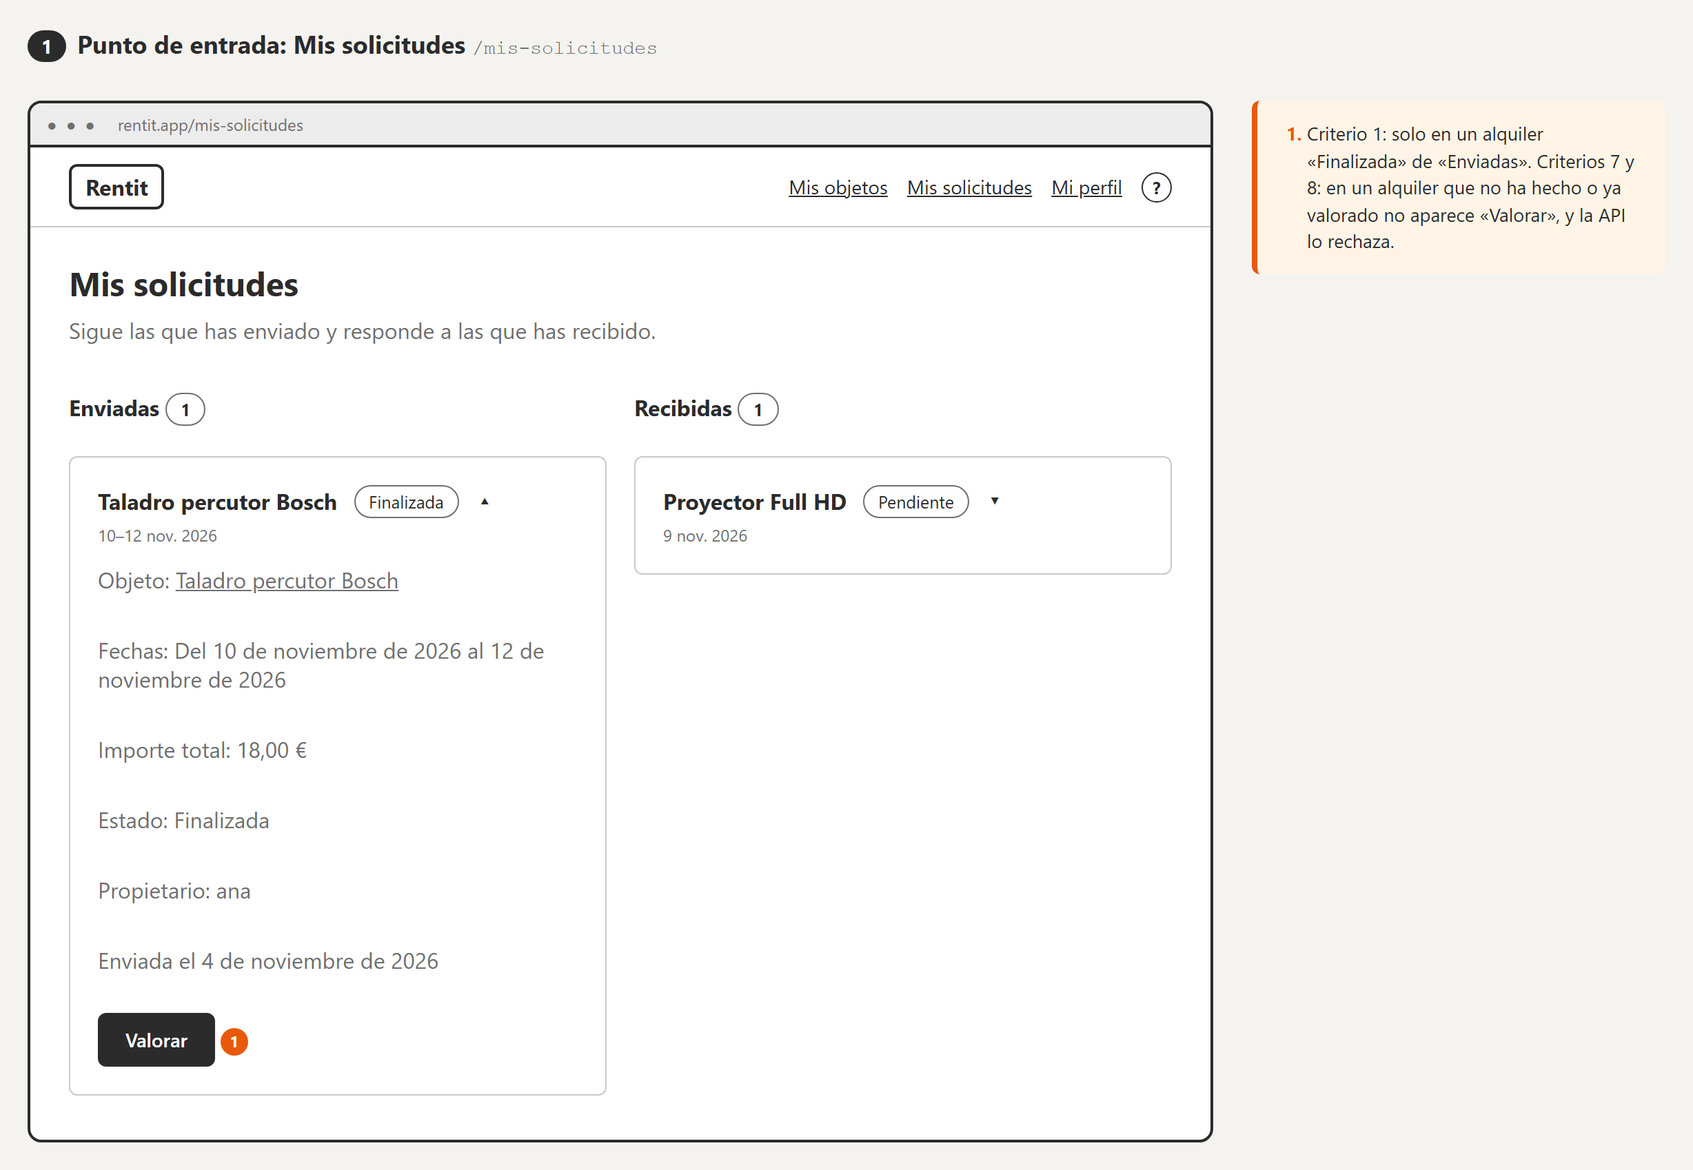
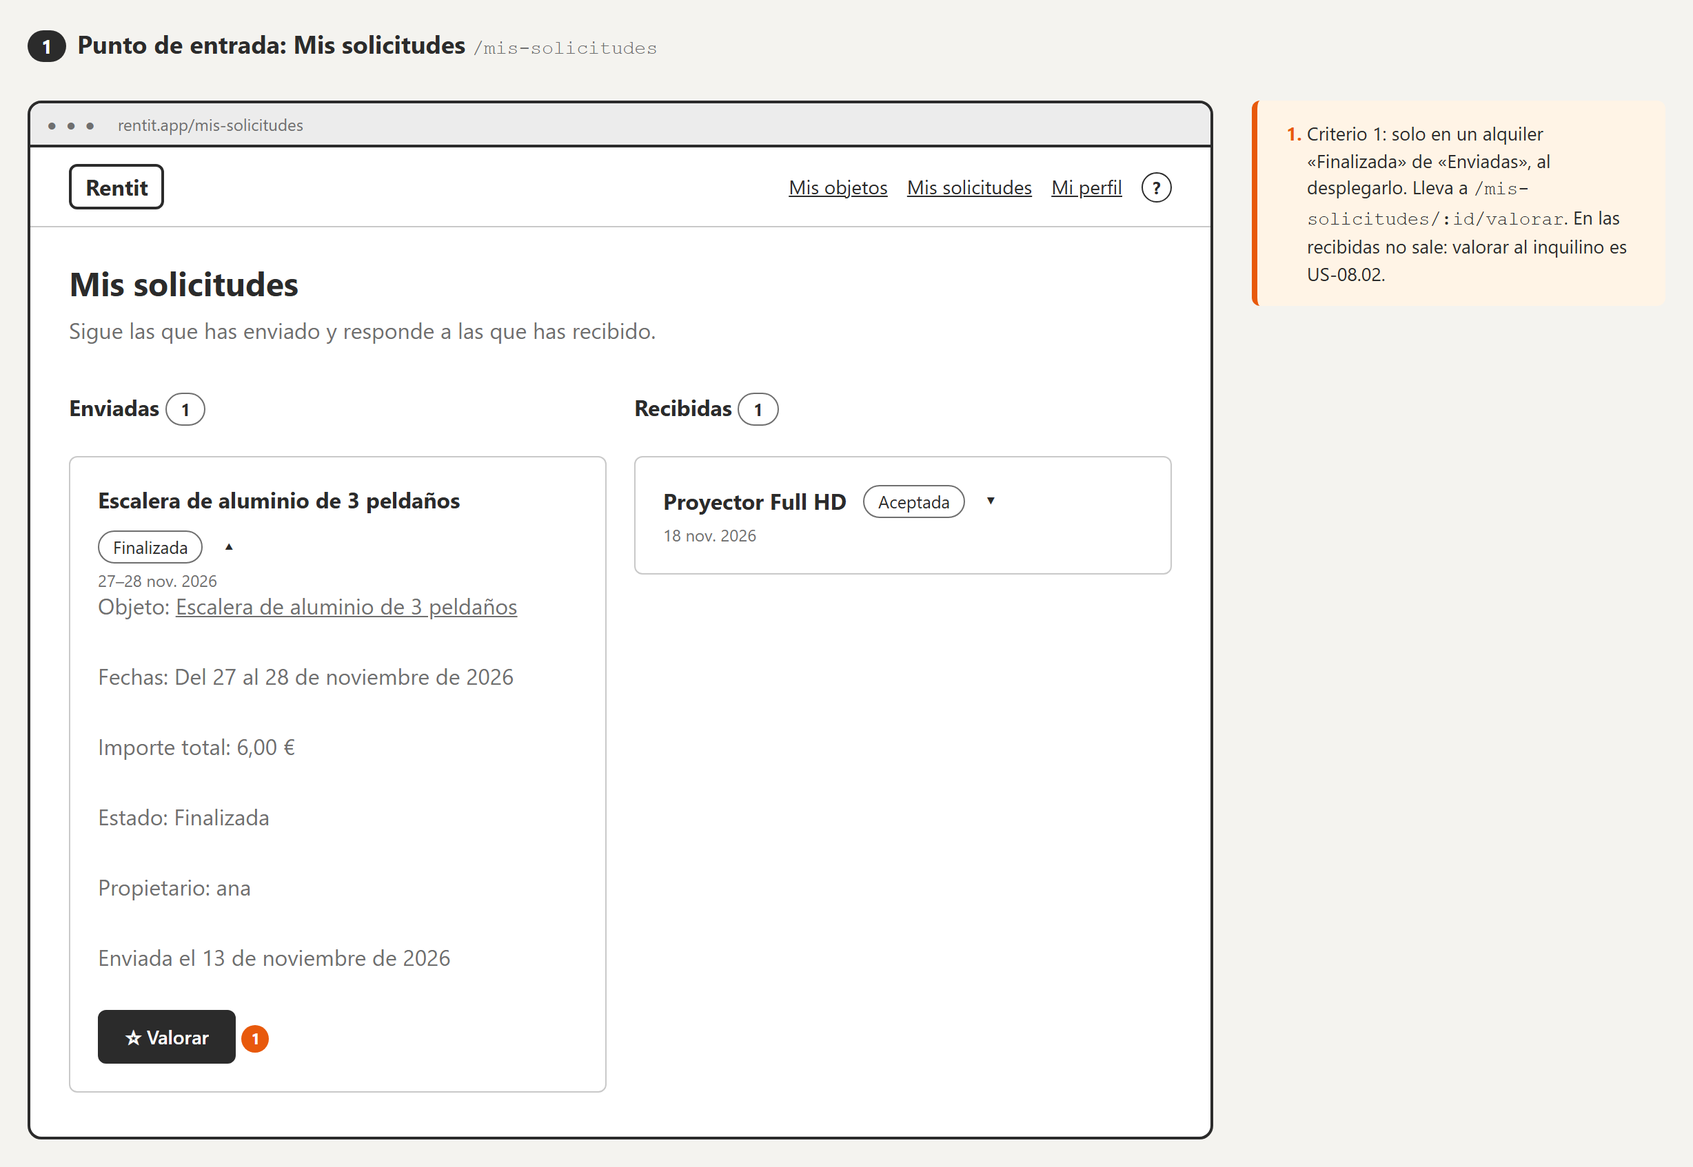
docs(wireframe): US-08.01 valorar un alquiler según la pantalla hecha (#296)

diff --git a/docs/wireframes/US-08.01-valorar-alquiler/index.html b/docs/wireframes/US-08.01-valorar-alquiler/index.html
@@ -13,10 +13,14 @@
         experiencia con otros usuarios</strong>.
       </p>
       <p class="wf-meta">
-        Issue #74 · Flujo propuesto: se confirma en el Sprint Planning · Wireframe de baja fidelidad · Generado con
-        asistencia de IA (Claude) – pendiente de revisar por el equipo en el Sprint Planning
+        Issue #74 · Tarea de frontend #296 · Wireframe de baja fidelidad · Actualizado con asistencia de IA (Claude) tras
+        la maqueta web de la tarea, pendiente de revisar por el equipo
       </p>
-      <p class="wf-meta">Actualizado con asistencia de IA (Claude) tras el rediseño (#258), pendiente de revisar por el equipo</p>
+      <p class="wf-meta">
+        Valora quien hizo la solicitud (el arrendatario). Que el propietario valore al inquilino es US-08.02 y usa el mismo
+        formulario. El backend (#295) todavía no existe: la pantalla se ha probado contra un simulador del contrato
+        propuesto.
+      </p>
       <p class="wf-meta">Maqueta de Figma · Marco «Ficha»: la sección «Valoracions» enseña en la ficha el resultado de esta historia; aquí solo se dibuja cómo se valora.</p>
     </header>
 
@@ -26,10 +30,7 @@
         <div class="wf-escritorio" data-url="rentit.app/mis-solicitudes">
           <nav class="wf-nav">
             <span class="wf-logo">Rentit</span>
-            <span class="wf-enlaces">
-              <span class="wf-enlace">Mis objetos</span>
-              <span class="wf-enlace">Mis solicitudes</span>
-              <span class="wf-enlace">Mi perfil</span><span class="wf-icono-ayuda" title="Ayuda">?</span></span>
+            <span class="wf-enlaces"><span class="wf-enlace">Mis objetos</span><span class="wf-enlace">Mis solicitudes</span><span class="wf-enlace">Mi perfil</span><span class="wf-icono-ayuda" title="Ayuda">?</span></span>
           </nav>
           <div class="wf-contenido">
             <h3 class="wf-h1">Mis solicitudes</h3>
@@ -38,26 +39,25 @@
               <div>
                 <h4>Enviadas <span class="wf-chip">1</span></h4>
                 <div class="wf-tarjeta">
-                  <div class="wf-fila"><strong>Taladro percutor Bosch</strong><span class="wf-chip">Finalizada</span><span>▴</span></div>
-                  <p class="wf-ayuda">10–12 nov. 2026</p>
-                  <p class="wf-texto"></p>
+                  <div class="wf-fila"><strong>Escalera de aluminio de 3 peldaños</strong><span class="wf-chip">Finalizada</span><span>▴</span></div>
+                  <p class="wf-ayuda">27–28 nov. 2026</p>
                   <div class="wf-rejilla">
-                    <p class="wf-texto">Objeto: <span class="wf-enlace">Taladro percutor Bosch</span></p>
-                    <p class="wf-texto">Fechas: Del 10 de noviembre de 2026 al 12 de noviembre de 2026</p>
-                    <p class="wf-texto">Importe total: 18,00 €</p>
+                    <p class="wf-texto">Objeto: <span class="wf-enlace">Escalera de aluminio de 3 peldaños</span></p>
+                    <p class="wf-texto">Fechas: Del 27 al 28 de noviembre de 2026</p>
+                    <p class="wf-texto">Importe total: 6,00 €</p>
                     <p class="wf-texto">Estado: Finalizada</p>
                     <p class="wf-texto">Propietario: ana</p>
-                    <p class="wf-texto">Enviada el 4 de noviembre de 2026</p>
+                    <p class="wf-texto">Enviada el 13 de noviembre de 2026</p>
                   </div>
                   <p class="wf-texto"></p>
-                  <span class="wf-boton">Valorar</span><span class="wf-marca">1</span>
+                  <span class="wf-boton">☆ Valorar</span><span class="wf-marca">1</span>
                 </div>
               </div>
               <div>
                 <h4>Recibidas <span class="wf-chip">1</span></h4>
                 <div class="wf-tarjeta">
-                  <div class="wf-fila"><strong>Proyector Full HD</strong><span class="wf-chip">Pendiente</span><span>▾</span></div>
-                  <p class="wf-ayuda">9 nov. 2026</p>
+                  <div class="wf-fila"><strong>Proyector Full HD</strong><span class="wf-chip">Aceptada</span><span>▾</span></div>
+                  <p class="wf-ayuda">18 nov. 2026</p>
                 </div>
               </div>
             </div>
@@ -66,8 +66,8 @@
       </div>
       <ol class="wf-notas">
         <li>
-          Criterio 1: solo en un alquiler «Finalizada» de «Enviadas». Criterios 7 y 8: en un alquiler que no ha hecho o ya
-          valorado no aparece «Valorar», y la API lo rechaza.
+          Criterio 1: solo en un alquiler «Finalizada» de «Enviadas», al desplegarlo. Lleva a
+          <code>/mis-solicitudes/:id/valorar</code>. En las recibidas no sale: valorar al inquilino es US-08.02.
         </li>
       </ol>
     </section>
@@ -77,34 +77,32 @@
     <section class="wf-pantalla" data-captura="2-formulario">
       <h2><span class="wf-paso">2</span>Formulario de valoración <code>/mis-solicitudes/:id/valorar</code></h2>
       <div class="wf-dispositivos">
-        <div class="wf-escritorio" data-url="rentit.app/mis-solicitudes/5ac9…/valorar">
+        <div class="wf-escritorio" data-url="rentit.app/mis-solicitudes/2b51…/valorar">
           <nav class="wf-nav">
             <span class="wf-logo">Rentit</span>
-            <span class="wf-enlaces">
-              <span class="wf-enlace">Mis objetos</span>
-              <span class="wf-enlace">Mis solicitudes</span>
-              <span class="wf-enlace">Mi perfil</span><span class="wf-icono-ayuda" title="Ayuda">?</span></span>
+            <span class="wf-enlaces"><span class="wf-enlace">Mis objetos</span><span class="wf-enlace">Mis solicitudes</span><span class="wf-enlace">Mi perfil</span><span class="wf-icono-ayuda" title="Ayuda">?</span></span>
           </nav>
           <div class="wf-contenido">
-            <div class="wf-centrado wf-tarjeta">
-              <h3 class="wf-h1">Valorar el alquiler <span class="wf-marca">1</span></h3>
-              <p class="wf-texto">Taladro percutor Bosch · Del 10/11/2026 al 12/11/2026</p>
-              <div class="wf-campo">
-                <label>Puntuación <span class="wf-marca">2</span></label>
+            <div class="wf-centrado">
+              <h3 class="wf-h1">Valorar el alquiler</h3>
+              <p class="wf-ayuda">Cuenta tu experiencia para ayudar a otras personas.</p>
+              <div class="wf-tarjeta">
+                <p class="wf-texto"><span class="wf-enlace">Escalera de aluminio de 3 peldaños</span> <span class="wf-marca">1</span></p>
+                <p class="wf-ayuda">Del 27 de noviembre de 2026 al 28 de noviembre de 2026<br />Propietario: ana</p>
+                <div class="wf-campo">
+                  <label>Puntuación <span class="wf-marca">2</span></label>
+                  <p class="wf-texto">☆ ☆ ☆ ☆ ☆ &nbsp; <strong>Elige de 1 a 5</strong></p>
+                </div>
+                <div class="wf-campo">
+                  <label>Comentario (opcional) <span class="wf-marca">3</span></label>
+                  <div class="wf-input">¿Qué tal ha ido? El objeto, la entrega, el trato…<br /><br /></div>
+                  <p class="wf-ayuda">Lo verán otras personas en el perfil de ana. Hasta 1000 caracteres (0/1000).</p>
+                </div>
                 <div class="wf-fila">
-                  <span class="wf-boton wf-secundario">☆</span>
-                  <span class="wf-boton wf-secundario">☆</span>
-                  <span class="wf-boton wf-secundario">☆</span>
-                  <span class="wf-boton wf-secundario">☆</span>
-                  <span class="wf-boton wf-secundario">☆</span>
+                  <span class="wf-boton">Publicar</span><span class="wf-marca">4</span>
+                  <span class="wf-boton wf-secundario">Cancelar</span>
                 </div>
               </div>
-              <div class="wf-campo">
-                <label>Comentario <span class="wf-marca">3</span></label>
-                <div class="wf-input">Cuenta cómo ha ido tu experiencia</div>
-                <p class="wf-ayuda">Opcional.</p>
-              </div>
-              <span class="wf-boton wf-ancho">Publicar</span>
             </div>
           </div>
         </div>
@@ -112,25 +110,27 @@
           <nav class="wf-nav"><span class="wf-logo">Rentit</span><span class="wf-icono-ayuda" title="Ayuda">?</span></nav>
           <div class="wf-contenido">
             <h3 class="wf-h1">Valorar el alquiler</h3>
-            <p class="wf-texto">Taladro percutor Bosch · Del 10/11/2026 al 12/11/2026</p>
-            <div class="wf-campo">
-              <label>Puntuación</label>
-              <div class="wf-input">☆ ☆ ☆ ☆ ☆</div>
+            <div class="wf-tarjeta">
+              <p class="wf-texto"><span class="wf-enlace">Escalera de aluminio de 3 peldaños</span></p>
+              <p class="wf-ayuda">27 – 28 nov. 2026 · ana</p>
+              <div class="wf-campo"><label>Puntuación</label><p class="wf-texto">☆ ☆ ☆ ☆ ☆<br /><strong>Elige de 1 a 5</strong></p></div>
+              <div class="wf-campo"><label>Comentario (opcional)</label><div class="wf-input">¿Qué tal ha ido?…<br /><br /></div></div>
+              <span class="wf-boton wf-ancho">Publicar</span>
+              <p class="wf-texto"></p>
+              <span class="wf-boton wf-secundario wf-ancho">Cancelar</span>
             </div>
-            <div class="wf-campo">
-              <label>Comentario</label>
-              <div class="wf-input">Cuenta cómo ha ido tu experiencia</div>
-              <p class="wf-ayuda">Opcional.</p>
-            </div>
-            <span class="wf-boton wf-ancho">Publicar</span>
           </div>
           <div class="wf-barra-inferior"><span>Inicio</span><span>Mis objetos</span><span>Mis solicitudes</span><span>Mi perfil</span></div>
         </div>
       </div>
       <ol class="wf-notas">
-        <li>Ruta propuesta. No se define «Cancelar»: se sale con la cabecera.</li>
-        <li>Criterios 2 y 4: de 1 a 5 estrellas, obligatoria.</li>
-        <li>Criterio 3: el comentario es opcional.</li>
+        <li>El alquiler que se valora: el objeto enlaza a su ficha (<code>/objetos/:id</code>). Mientras carga se ve un relleno.</li>
+        <li>
+          Criterio 2: de 1 a 5 estrellas. Son botones de opción (se eligen con el ratón o con las flechas del teclado) y al
+          lado se lee qué significa cada una: Muy mal, Mal, Normal, Bien, Excelente. Al pasar el ratón se ve cómo quedaría.
+        </li>
+        <li>Criterio 3: comentario opcional, hasta 1000 caracteres, con contador.</li>
+        <li>«Publicar» envía la valoración. «Cancelar» vuelve a «Mis solicitudes» sin publicar.</li>
       </ol>
     </section>
 
@@ -139,41 +139,29 @@
     <section class="wf-pantalla" data-captura="3-error-sin-puntuacion">
       <h2><span class="wf-paso">3</span>Error: sin puntuación <code>/mis-solicitudes/:id/valorar</code></h2>
       <div class="wf-dispositivos">
-        <div class="wf-escritorio" data-url="rentit.app/mis-solicitudes/5ac9…/valorar">
+        <div class="wf-escritorio" data-url="rentit.app/mis-solicitudes/2b51…/valorar">
           <nav class="wf-nav">
             <span class="wf-logo">Rentit</span>
-            <span class="wf-enlaces">
-              <span class="wf-enlace">Mis objetos</span>
-              <span class="wf-enlace">Mis solicitudes</span>
-              <span class="wf-enlace">Mi perfil</span><span class="wf-icono-ayuda" title="Ayuda">?</span></span>
+            <span class="wf-enlaces"><span class="wf-enlace">Mis objetos</span><span class="wf-enlace">Mis solicitudes</span><span class="wf-enlace">Mi perfil</span><span class="wf-icono-ayuda" title="Ayuda">?</span></span>
           </nav>
           <div class="wf-contenido">
             <div class="wf-centrado wf-tarjeta">
-              <h3 class="wf-h1">Valorar el alquiler</h3>
-              <p class="wf-texto">Taladro percutor Bosch · Del 10/11/2026 al 12/11/2026</p>
               <div class="wf-campo">
                 <label>Puntuación</label>
-                <div class="wf-fila">
-                  <span class="wf-boton wf-secundario">☆</span>
-                  <span class="wf-boton wf-secundario">☆</span>
-                  <span class="wf-boton wf-secundario">☆</span>
-                  <span class="wf-boton wf-secundario">☆</span>
-                  <span class="wf-boton wf-secundario">☆</span>
-                </div>
+                <p class="wf-texto">☆ ☆ ☆ ☆ ☆ &nbsp; <strong>Elige de 1 a 5</strong></p>
                 <p class="wf-error">Elige una puntuación de 1 a 5 estrellas. <span class="wf-marca">1</span></p>
               </div>
-              <div class="wf-campo">
-                <label>Comentario</label>
-                <div class="wf-input">Cuenta cómo ha ido tu experiencia</div>
-                <p class="wf-ayuda">Opcional.</p>
-              </div>
-              <span class="wf-boton wf-ancho">Publicar</span>
+              <div class="wf-campo"><label>Comentario (opcional)</label><div class="wf-input">Muy bien<br /><br /></div></div>
+              <div class="wf-fila"><span class="wf-boton">Publicar</span><span class="wf-boton wf-secundario">Cancelar</span></div>
             </div>
           </div>
         </div>
       </div>
       <ol class="wf-notas">
-        <li>Criterio 5: no se publica y se indica en este campo. El texto exacto es una propuesta.</li>
+        <li>
+          Criterios 4 y 5: no se publica (no se llama a la API) y se indica en ese campo; las estrellas se marcan en rojo.
+          Al elegir una, el error desaparece.
+        </li>
       </ol>
     </section>
 
@@ -182,40 +170,33 @@
     <section class="wf-pantalla" data-captura="4-formulario-relleno">
       <h2><span class="wf-paso">4</span>Formulario relleno <code>/mis-solicitudes/:id/valorar</code></h2>
       <div class="wf-dispositivos">
-        <div class="wf-escritorio" data-url="rentit.app/mis-solicitudes/5ac9…/valorar">
+        <div class="wf-escritorio" data-url="rentit.app/mis-solicitudes/2b51…/valorar">
           <nav class="wf-nav">
             <span class="wf-logo">Rentit</span>
-            <span class="wf-enlaces">
-              <span class="wf-enlace">Mis objetos</span>
-              <span class="wf-enlace">Mis solicitudes</span>
-              <span class="wf-enlace">Mi perfil</span><span class="wf-icono-ayuda" title="Ayuda">?</span></span>
+            <span class="wf-enlaces"><span class="wf-enlace">Mis objetos</span><span class="wf-enlace">Mis solicitudes</span><span class="wf-enlace">Mi perfil</span><span class="wf-icono-ayuda" title="Ayuda">?</span></span>
           </nav>
           <div class="wf-contenido">
             <div class="wf-centrado wf-tarjeta">
-              <h3 class="wf-h1">Valorar el alquiler</h3>
-              <p class="wf-texto">Taladro percutor Bosch · Del 10/11/2026 al 12/11/2026</p>
               <div class="wf-campo">
                 <label>Puntuación</label>
-                <div class="wf-fila">
-                  <span class="wf-boton">★</span>
-                  <span class="wf-boton">★</span>
-                  <span class="wf-boton">★</span>
-                  <span class="wf-boton">★</span>
-                  <span class="wf-boton wf-secundario">☆</span>
-                </div>
+                <p class="wf-texto">★ ★ ★ ★ ☆ &nbsp; <strong>Bien</strong></p>
               </div>
               <div class="wf-campo">
-                <label>Comentario</label>
-                <div class="wf-input">El taladro funcionaba muy bien.</div>
-                <p class="wf-ayuda">Opcional.</p>
+                <label>Comentario (opcional)</label>
+                <div class="wf-input">Escalera en perfecto estado y ana muy puntual. Repetiría.<br /><br /></div>
+                <p class="wf-ayuda">Lo verán otras personas en el perfil de ana. Hasta 1000 caracteres (57/1000).</p>
               </div>
-              <span class="wf-boton wf-ancho">Publicar</span><span class="wf-marca">1</span>
+              <div class="wf-fila"><span class="wf-boton">Publicar</span><span class="wf-marca">1</span><span class="wf-boton wf-secundario">Cancelar</span></div>
             </div>
           </div>
         </div>
       </div>
       <ol class="wf-notas">
-        <li>Criterio 6: la valoración queda asociada al alquiler y al usuario que la ha creado.</li>
+        <li>
+          Criterio 6: la valoración queda asociada al alquiler y a quien la crea (<code>POST /reservas/:id/valoracion</code>
+          con la puntuación y el comentario). Mientras se envía dice «Publicando…» y el formulario está desactivado. Si la
+          API rechaza el comentario, el error sale en ese campo; otros errores, encima de los botones.
+        </li>
       </ol>
     </section>
 
@@ -227,46 +208,56 @@
         <div class="wf-escritorio" data-url="rentit.app/mis-solicitudes">
           <nav class="wf-nav">
             <span class="wf-logo">Rentit</span>
-            <span class="wf-enlaces">
-              <span class="wf-enlace">Mis objetos</span>
-              <span class="wf-enlace">Mis solicitudes</span>
-              <span class="wf-enlace">Mi perfil</span><span class="wf-icono-ayuda" title="Ayuda">?</span></span>
+            <span class="wf-enlaces"><span class="wf-enlace">Mis objetos</span><span class="wf-enlace">Mis solicitudes</span><span class="wf-enlace">Mi perfil</span><span class="wf-icono-ayuda" title="Ayuda">?</span></span>
           </nav>
           <div class="wf-contenido">
             <h3 class="wf-h1">Mis solicitudes</h3>
-            <p class="wf-texto">Sigue las que has enviado y responde a las que has recibido.</p>
+            <p class="wf-aviso">✓ Valoración publicada. <span class="wf-marca">1</span></p>
             <div class="wf-columnas wf-iguales">
-              <div>
-                <h4>Enviadas <span class="wf-chip">1</span></h4>
-                <div class="wf-tarjeta">
-                  <div class="wf-fila"><strong>Taladro percutor Bosch</strong><span class="wf-chip">Finalizada</span><span>▴</span></div>
-                  <p class="wf-ayuda">10–12 nov. 2026</p>
-                  <p class="wf-texto"></p>
-                  <div class="wf-rejilla">
-                    <p class="wf-texto">Objeto: <span class="wf-enlace">Taladro percutor Bosch</span></p>
-                    <p class="wf-texto">Fechas: Del 10 de noviembre de 2026 al 12 de noviembre de 2026</p>
-                    <p class="wf-texto">Importe total: 18,00 €</p>
-                    <p class="wf-texto">Estado: Finalizada</p>
-                    <p class="wf-texto">Propietario: ana</p>
-                    <p class="wf-texto">Enviada el 4 de noviembre de 2026</p>
-                  </div>
-                  <p class="wf-texto"></p>
-                  <p class="wf-texto">Tu valoración: ★★★★☆ · «El taladro funcionaba muy bien.» <span class="wf-marca">1</span></p>
-                </div>
+              <div class="wf-tarjeta">
+                <div class="wf-fila"><strong>Escalera de aluminio de 3 peldaños</strong><span class="wf-chip">Finalizada</span><span>▴</span></div>
+                <p class="wf-ayuda">27–28 nov. 2026 · Propietario: ana</p>
+                <p class="wf-ayuda">Tu valoración <span class="wf-marca">2</span></p>
+                <p class="wf-texto">★ ★ ★ ★ ☆</p>
+                <p class="wf-texto"><em>«Escalera en perfecto estado y ana muy puntual. Repetiría.»</em></p>
               </div>
-              <div>
-                <h4>Recibidas <span class="wf-chip">1</span></h4>
-                <div class="wf-tarjeta">
-                  <div class="wf-fila"><strong>Proyector Full HD</strong><span class="wf-chip">Pendiente</span><span>▾</span></div>
-                  <p class="wf-ayuda">9 nov. 2026</p>
-                </div>
-              </div>
+              <div></div>
             </div>
           </div>
         </div>
       </div>
       <ol class="wf-notas">
+        <li>Aviso al volver del formulario. Desaparece al recargar la página.</li>
         <li>Criterio 8: el alquiler muestra la valoración en lugar de «Valorar», así que no se puede publicar otra.</li>
+      </ol>
+    </section>
+
+    <p class="wf-flecha">Si se abre el formulario de un alquiler ya valorado o sin finalizar</p>
+
+    <section class="wf-pantalla" data-captura="6-no-se-puede-valorar">
+      <h2><span class="wf-paso">6</span>Error: no se puede valorar <code>/mis-solicitudes/:id/valorar</code></h2>
+      <div class="wf-dispositivos">
+        <div class="wf-escritorio" data-url="rentit.app/mis-solicitudes/2b51…/valorar">
+          <nav class="wf-nav">
+            <span class="wf-logo">Rentit</span>
+            <span class="wf-enlaces"><span class="wf-enlace">Mis objetos</span><span class="wf-enlace">Mis solicitudes</span><span class="wf-enlace">Mi perfil</span><span class="wf-icono-ayuda" title="Ayuda">?</span></span>
+          </nav>
+          <div class="wf-contenido">
+            <div class="wf-centrado wf-tarjeta">
+              <p class="wf-aviso">✓ Ya has valorado este alquiler. <span class="wf-marca">1</span></p>
+              <p class="wf-texto">★ ★ ★ ★ ☆<br /><em>«Escalera en perfecto estado y ana muy puntual. Repetiría.»</em></p>
+              <span class="wf-boton wf-secundario">Volver a Mis solicitudes</span>
+            </div>
+          </div>
+        </div>
+      </div>
+      <ol class="wf-notas">
+        <li>
+          Criterios 7 y 8: en lugar del formulario sale el motivo. Ya valorado: «Ya has valorado este alquiler.» con la
+          valoración; sin finalizar: «Solo se puede valorar un alquiler finalizado.»; un alquiler que no ha hecho: «No
+          hemos encontrado este alquiler.». También si la API responde <code>409</code> al publicar (por ejemplo, ya lo
+          valoró en otra pestaña).
+        </li>
       </ol>
     </section>
   </body>
